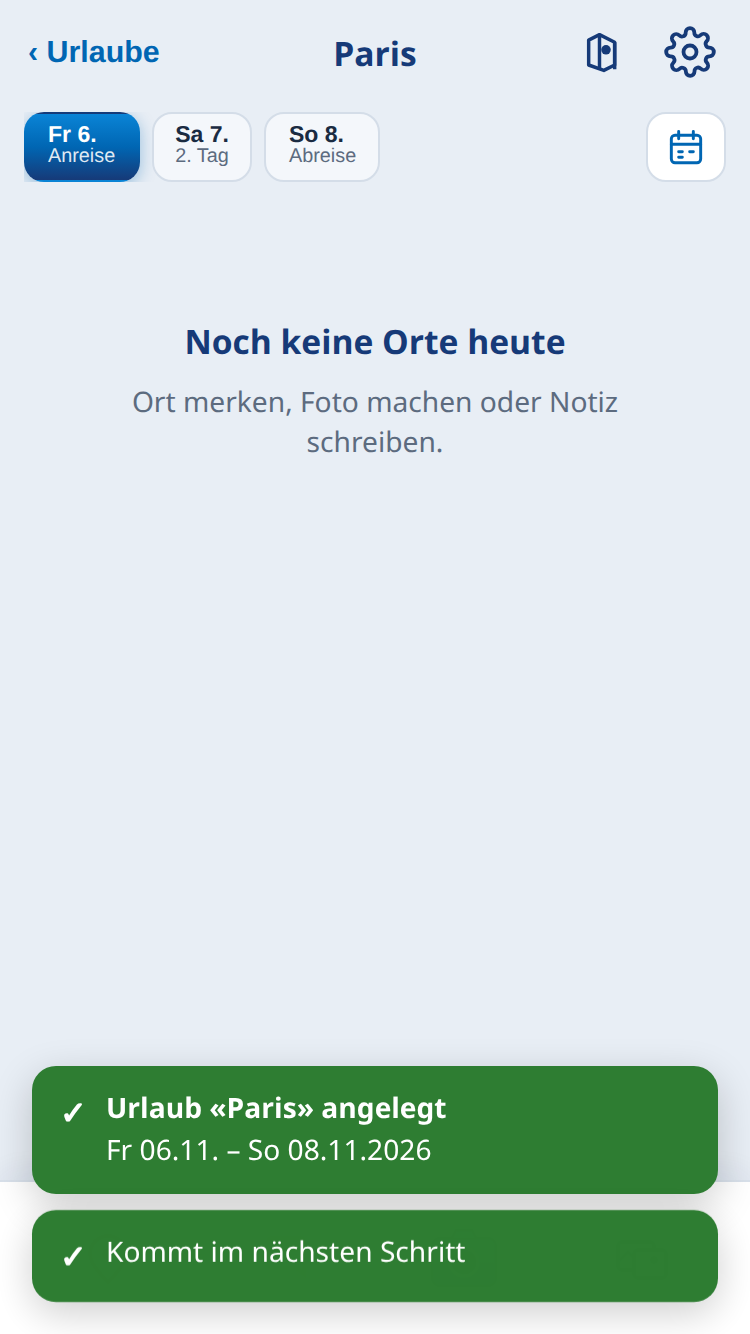
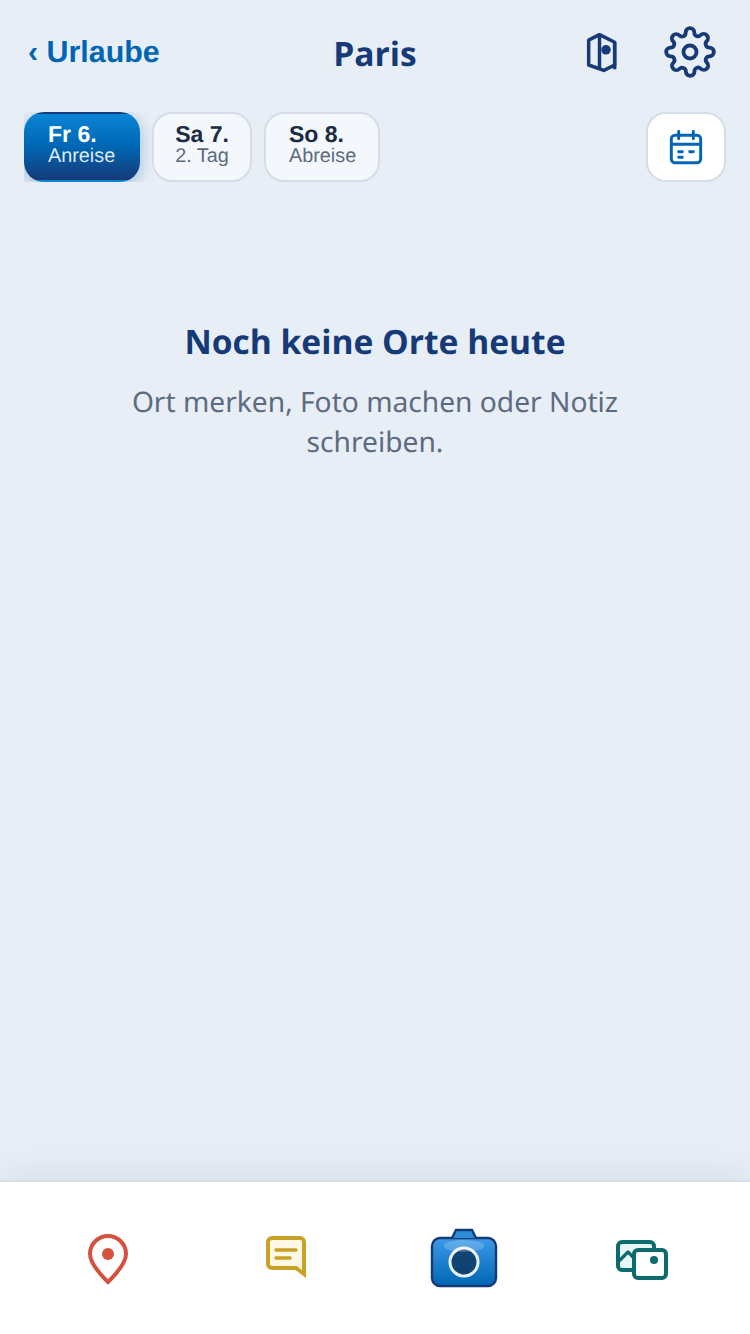
fix(1b): iOS-Schalter, Toast-Singleton, Kalender-Sheet und SW v4
- Schiebeschalter für Standort-Einstellung (role=switch)
- Ein Toast, 2,5 s, oberhalb Footer, unter Overlay
- Kalender-Sheet scrollbar; Screenshots ohne Toast-Überlagerung

Changed region(s): [[0.0307, 0.7991, 0.9813, 0.9835]]

diff --git a/js/ui-urlaub-settings.js b/js/ui-urlaub-settings.js
@@ -26,10 +26,19 @@ export async function renderUrlaubSettings(appEl, id) {
     <main class="settings-main">
       <section class="settings-section">
         <h2 class="settings-section__label">Standort</h2>
-        <label class="settings-row">
+        <div class="settings-row settings-row--switch" data-action="toggle-row">
           <span>Standort beim Öffnen merken</span>
-          <input type="checkbox" data-testid="remember-location" ${remember ? "checked" : ""} />
-        </label>
+          <button
+            type="button"
+            class="ios-switch"
+            role="switch"
+            data-testid="remember-location"
+            aria-checked="${remember ? "true" : "false"}"
+            aria-label="Standort beim Öffnen merken"
+          >
+            <span class="ios-switch__knob" aria-hidden="true"></span>
+          </button>
+        </div>
       </section>
       <section class="settings-section">
         <h2 class="settings-section__label">Daten</h2>
@@ -47,14 +56,35 @@ export async function renderUrlaubSettings(appEl, id) {
     navigate({ name: "urlaub-detail", id });
   });
 
-  const toggle = appEl.querySelector('[data-testid="remember-location"]');
-  const persistToggle = () => {
-    void setRememberLocationOnOpen(toggle.checked).then(() => {
+  const switchBtn = appEl.querySelector('[data-testid="remember-location"]');
+
+  const setSwitch = (on) => {
+    switchBtn.setAttribute("aria-checked", on ? "true" : "false");
+    switchBtn.classList.toggle("ios-switch--on", on);
+  };
+  setSwitch(remember);
+
+  const persistSwitch = (on) => {
+    void setRememberLocationOnOpen(on).then(() => {
       window.dispatchEvent(new CustomEvent("vacrecap:setting-saved"));
     });
   };
-  toggle.addEventListener("change", persistToggle);
-  toggle.addEventListener("input", persistToggle);
+
+  const toggleRow = () => {
+    const next = switchBtn.getAttribute("aria-checked") !== "true";
+    setSwitch(next);
+    persistSwitch(next);
+  };
+
+  switchBtn.addEventListener("click", (e) => {
+    e.stopPropagation();
+    toggleRow();
+  });
+
+  appEl.querySelector('[data-action="toggle-row"]').addEventListener("click", (e) => {
+    if (e.target.closest(".ios-switch")) return;
+    toggleRow();
+  });
 
   appEl.querySelector('[data-action="backup"]').addEventListener("click", () => {
     showToast("Kommt im nächsten Schritt");

diff --git a/js/toast.js b/js/toast.js
@@ -1,25 +1,51 @@
-const TOAST_MS = 3200;
+import { escapeHtml } from "./utils.js";
+
+const TOAST_MS = 2500;
+
+let hideTimer = null;
+let activeToast = null;
+
+function dismissToast({ immediate = false } = {}) {
+  if (hideTimer) {
+    clearTimeout(hideTimer);
+    hideTimer = null;
+  }
+  if (!activeToast) return;
+  const el = activeToast;
+  activeToast = null;
+  if (immediate) {
+    el.remove();
+    return;
+  }
+  el.classList.remove("toast--visible");
+  const remove = () => el.remove();
+  el.addEventListener("transitionend", remove, { once: true });
+  setTimeout(remove, 400);
+}
 
 export function showToast(message, { title } = {}) {
   const root = document.getElementById("toast-root");
   if (!root) return;
 
+  dismissToast({ immediate: true });
+
   const el = document.createElement("div");
   el.className = "toast";
+  el.setAttribute("data-testid", "app-toast");
   el.innerHTML = `
     <span class="toast__icon" aria-hidden="true">✓</span>
     <div class="toast__text">
-      ${title ? `<strong>${title}</strong>` : ""}
-      <span>${message}</span>
+      ${title ? `<strong>${escapeHtml(title)}</strong>` : ""}
+      <span>${escapeHtml(message)}</span>
     </div>
   `;
   root.appendChild(el);
+  activeToast = el;
   requestAnimationFrame(() => el.classList.add("toast--visible"));
 
-  const remove = () => {
-    el.classList.remove("toast--visible");
-    el.addEventListener("transitionend", () => el.remove(), { once: true });
-    setTimeout(() => el.remove(), 400);
-  };
-  setTimeout(remove, TOAST_MS);
+  hideTimer = setTimeout(() => dismissToast(), TOAST_MS);
+}
+
+export function dismissActiveToast() {
+  dismissToast({ immediate: true });
 }

diff --git a/css/styles.css b/css/styles.css
@@ -725,11 +725,11 @@ body {
   position: fixed;
   left: 16px;
   right: 16px;
-  bottom: calc(16px + var(--safe-bottom));
-  z-index: 50;
+  bottom: calc(76px + var(--safe-bottom));
+  z-index: 35;
   display: flex;
   flex-direction: column;
-  gap: 8px;
+  gap: 0;
   pointer-events: none;
   max-width: 448px;
   margin: 0 auto;
@@ -1027,10 +1027,55 @@ body {
   color: var(--navy);
 }
 
-.settings-row input[type="checkbox"] {
-  width: 22px;
-  height: 22px;
-  accent-color: var(--emaille);
+.settings-row--switch {
+  cursor: pointer;
+  user-select: none;
+}
+
+.ios-switch {
+  flex: 0 0 auto;
+  width: 51px;
+  height: 31px;
+  border: none;
+  border-radius: 16px;
+  padding: 2px;
+  background: #c8d0dc;
+  position: relative;
+  cursor: pointer;
+  transition: background 0.2s ease;
+}
+
+.ios-switch--on {
+  background: var(--emaille);
+}
+
+.ios-switch__knob {
+  display: block;
+  width: 27px;
+  height: 27px;
+  border-radius: 50%;
+  background: #fff;
+  box-shadow: 0 1px 4px rgba(0, 0, 0, 0.22);
+  transition: transform 0.2s ease;
+}
+
+.ios-switch--on .ios-switch__knob {
+  transform: translateX(20px);
+}
+
+.sheet--trip-calendar {
+  max-height: calc(100dvh - 24px - var(--safe-bottom));
+  display: flex;
+  flex-direction: column;
+  overflow: hidden;
+}
+
+.sheet--trip-calendar .calendar-scroll {
+  flex: 1 1 auto;
+  min-height: 0;
+  max-height: none;
+  overflow-y: auto;
+  -webkit-overflow-scrolling: touch;
 }
 
 .settings-link {

diff --git a/js/ui-trip-day-calendar.js b/js/ui-trip-day-calendar.js
@@ -1,4 +1,5 @@
 import { isDayInVacation, vacationDays } from "./days.js";
+import { dismissActiveToast } from "./toast.js";
 import { formatIsoDate, parseIsoDate } from "./utils.js";
 
 const MONTH_NAMES = [
@@ -42,6 +43,7 @@ function monthsForVacation(vacation) {
 }
 
 export function openTripDayCalendar({ vacation, activeDay, onSelect }) {
+  dismissActiveToast();
   const overlay = document.getElementById("overlay-root");
   overlay.hidden = false;
   overlay.innerHTML = "";

diff --git a/sw.js b/sw.js
@@ -1,4 +1,4 @@
-const CACHE_VERSION = "vacrecap-v3";
+const CACHE_VERSION = "vacrecap-v4";
 const ASSETS = [
   "./",
   "./index.html",
